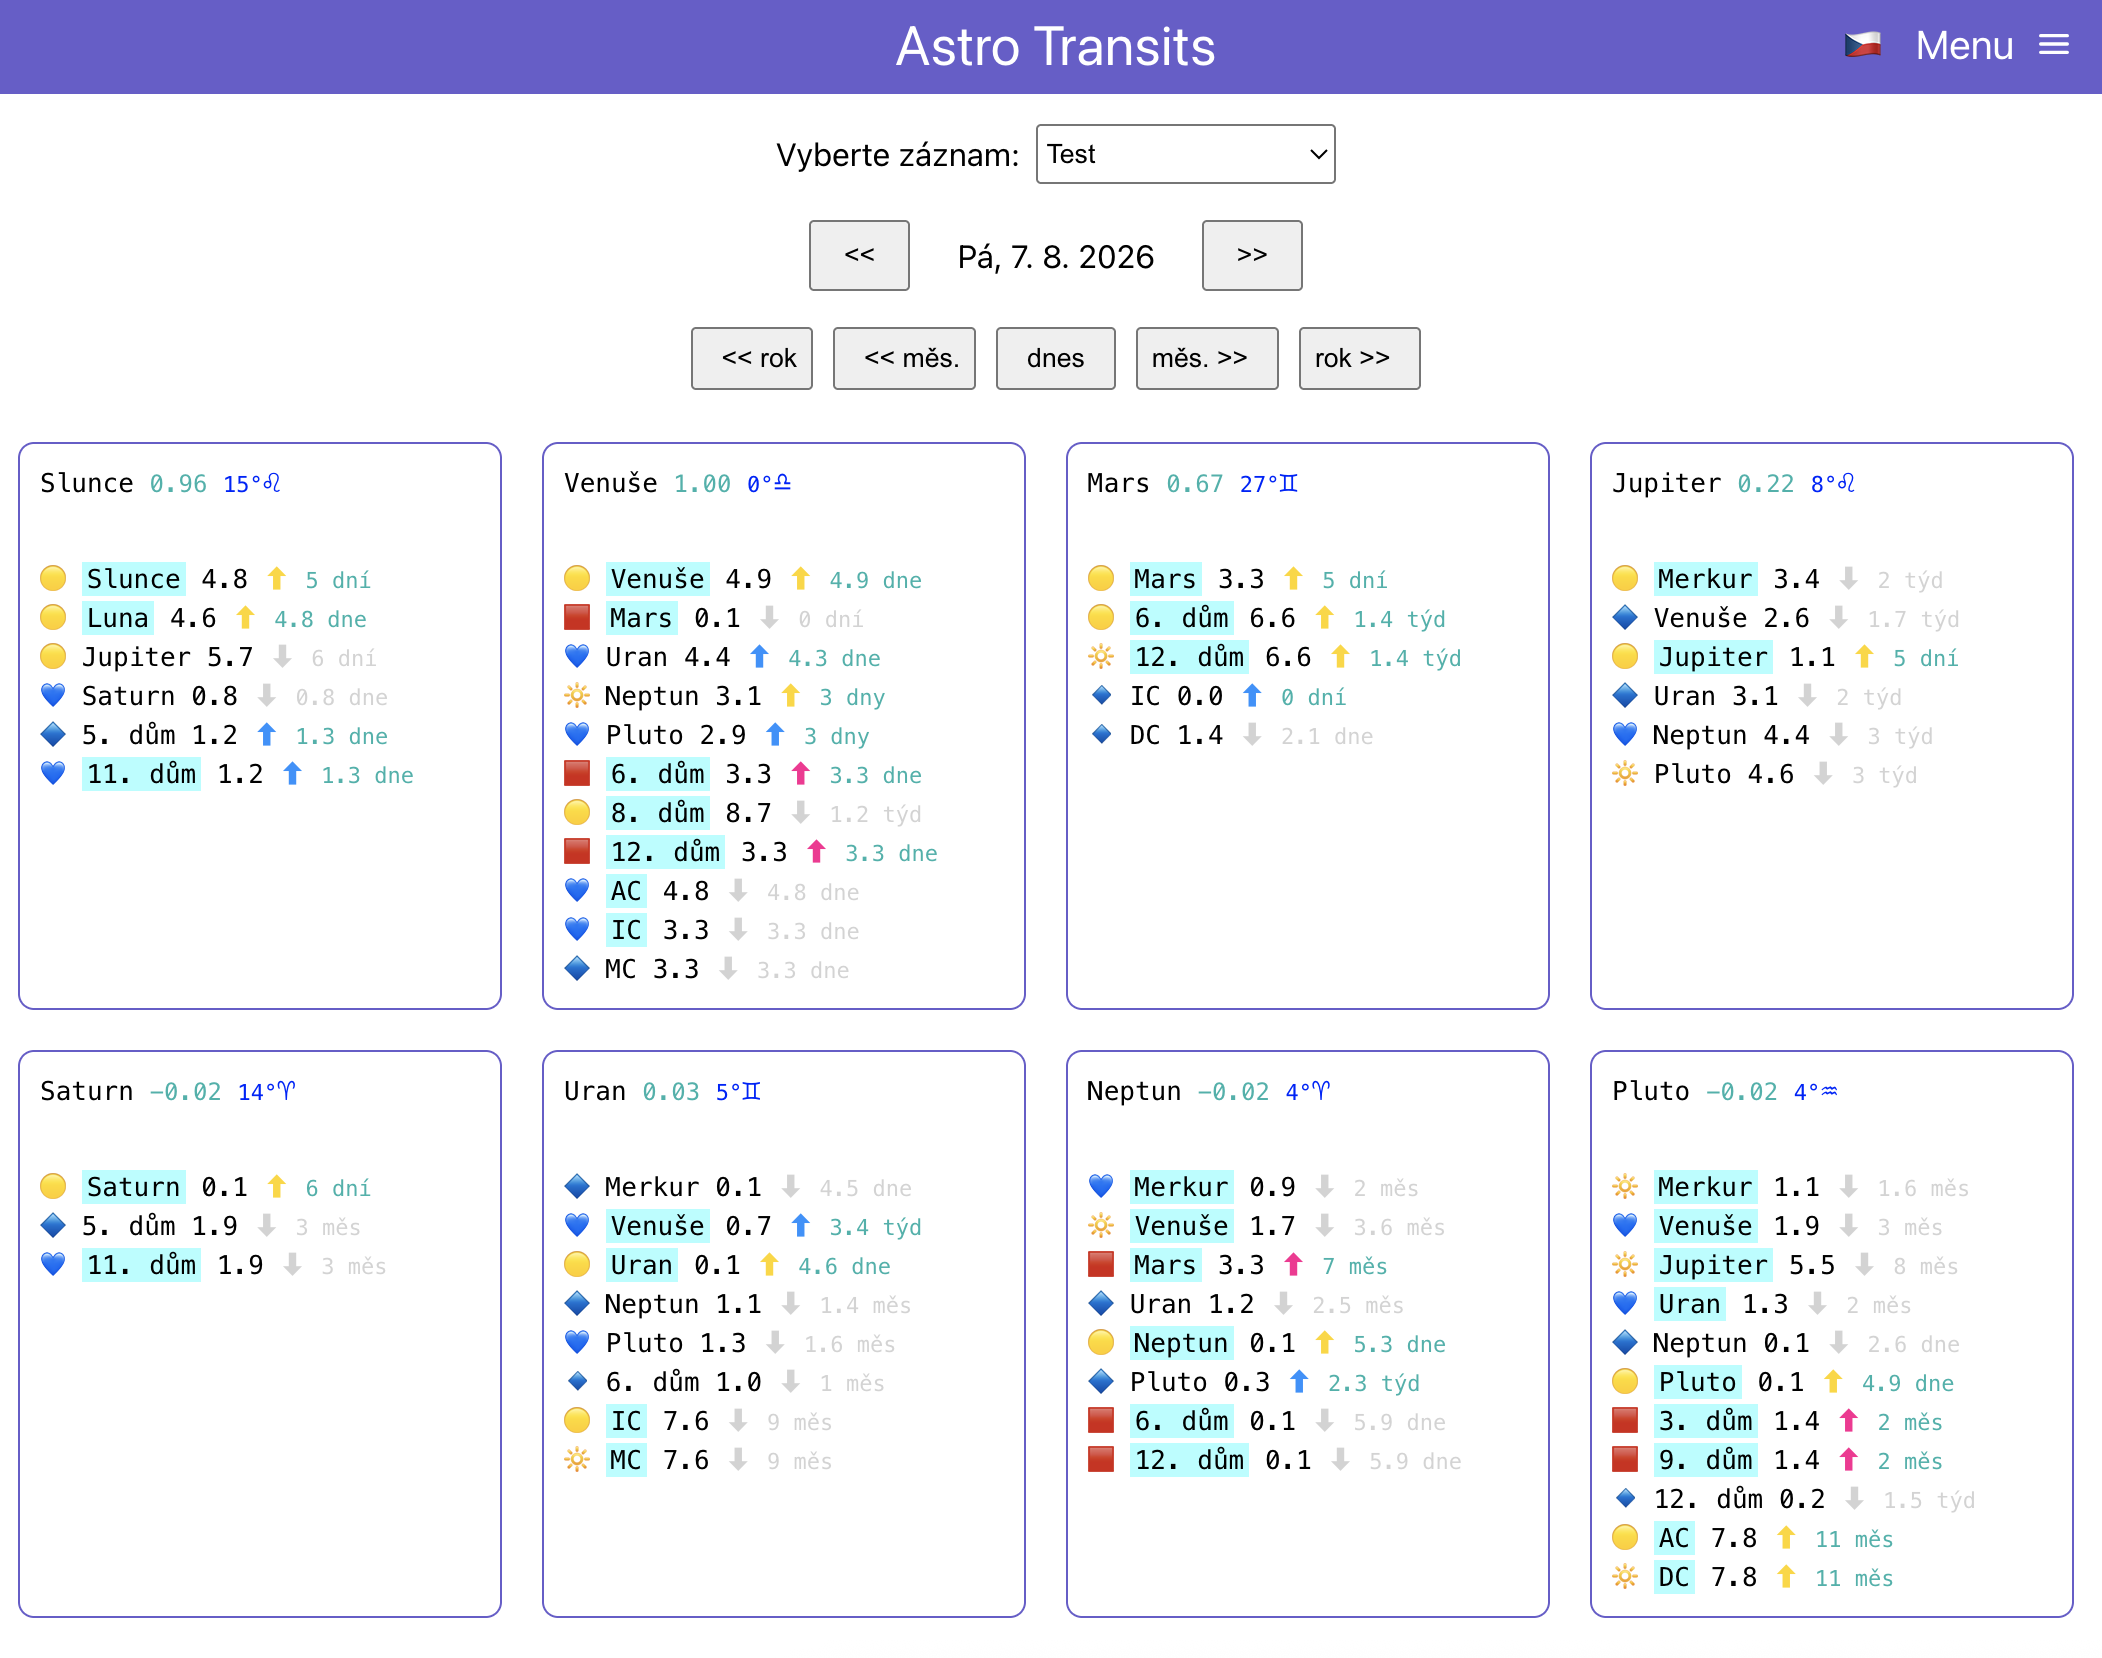
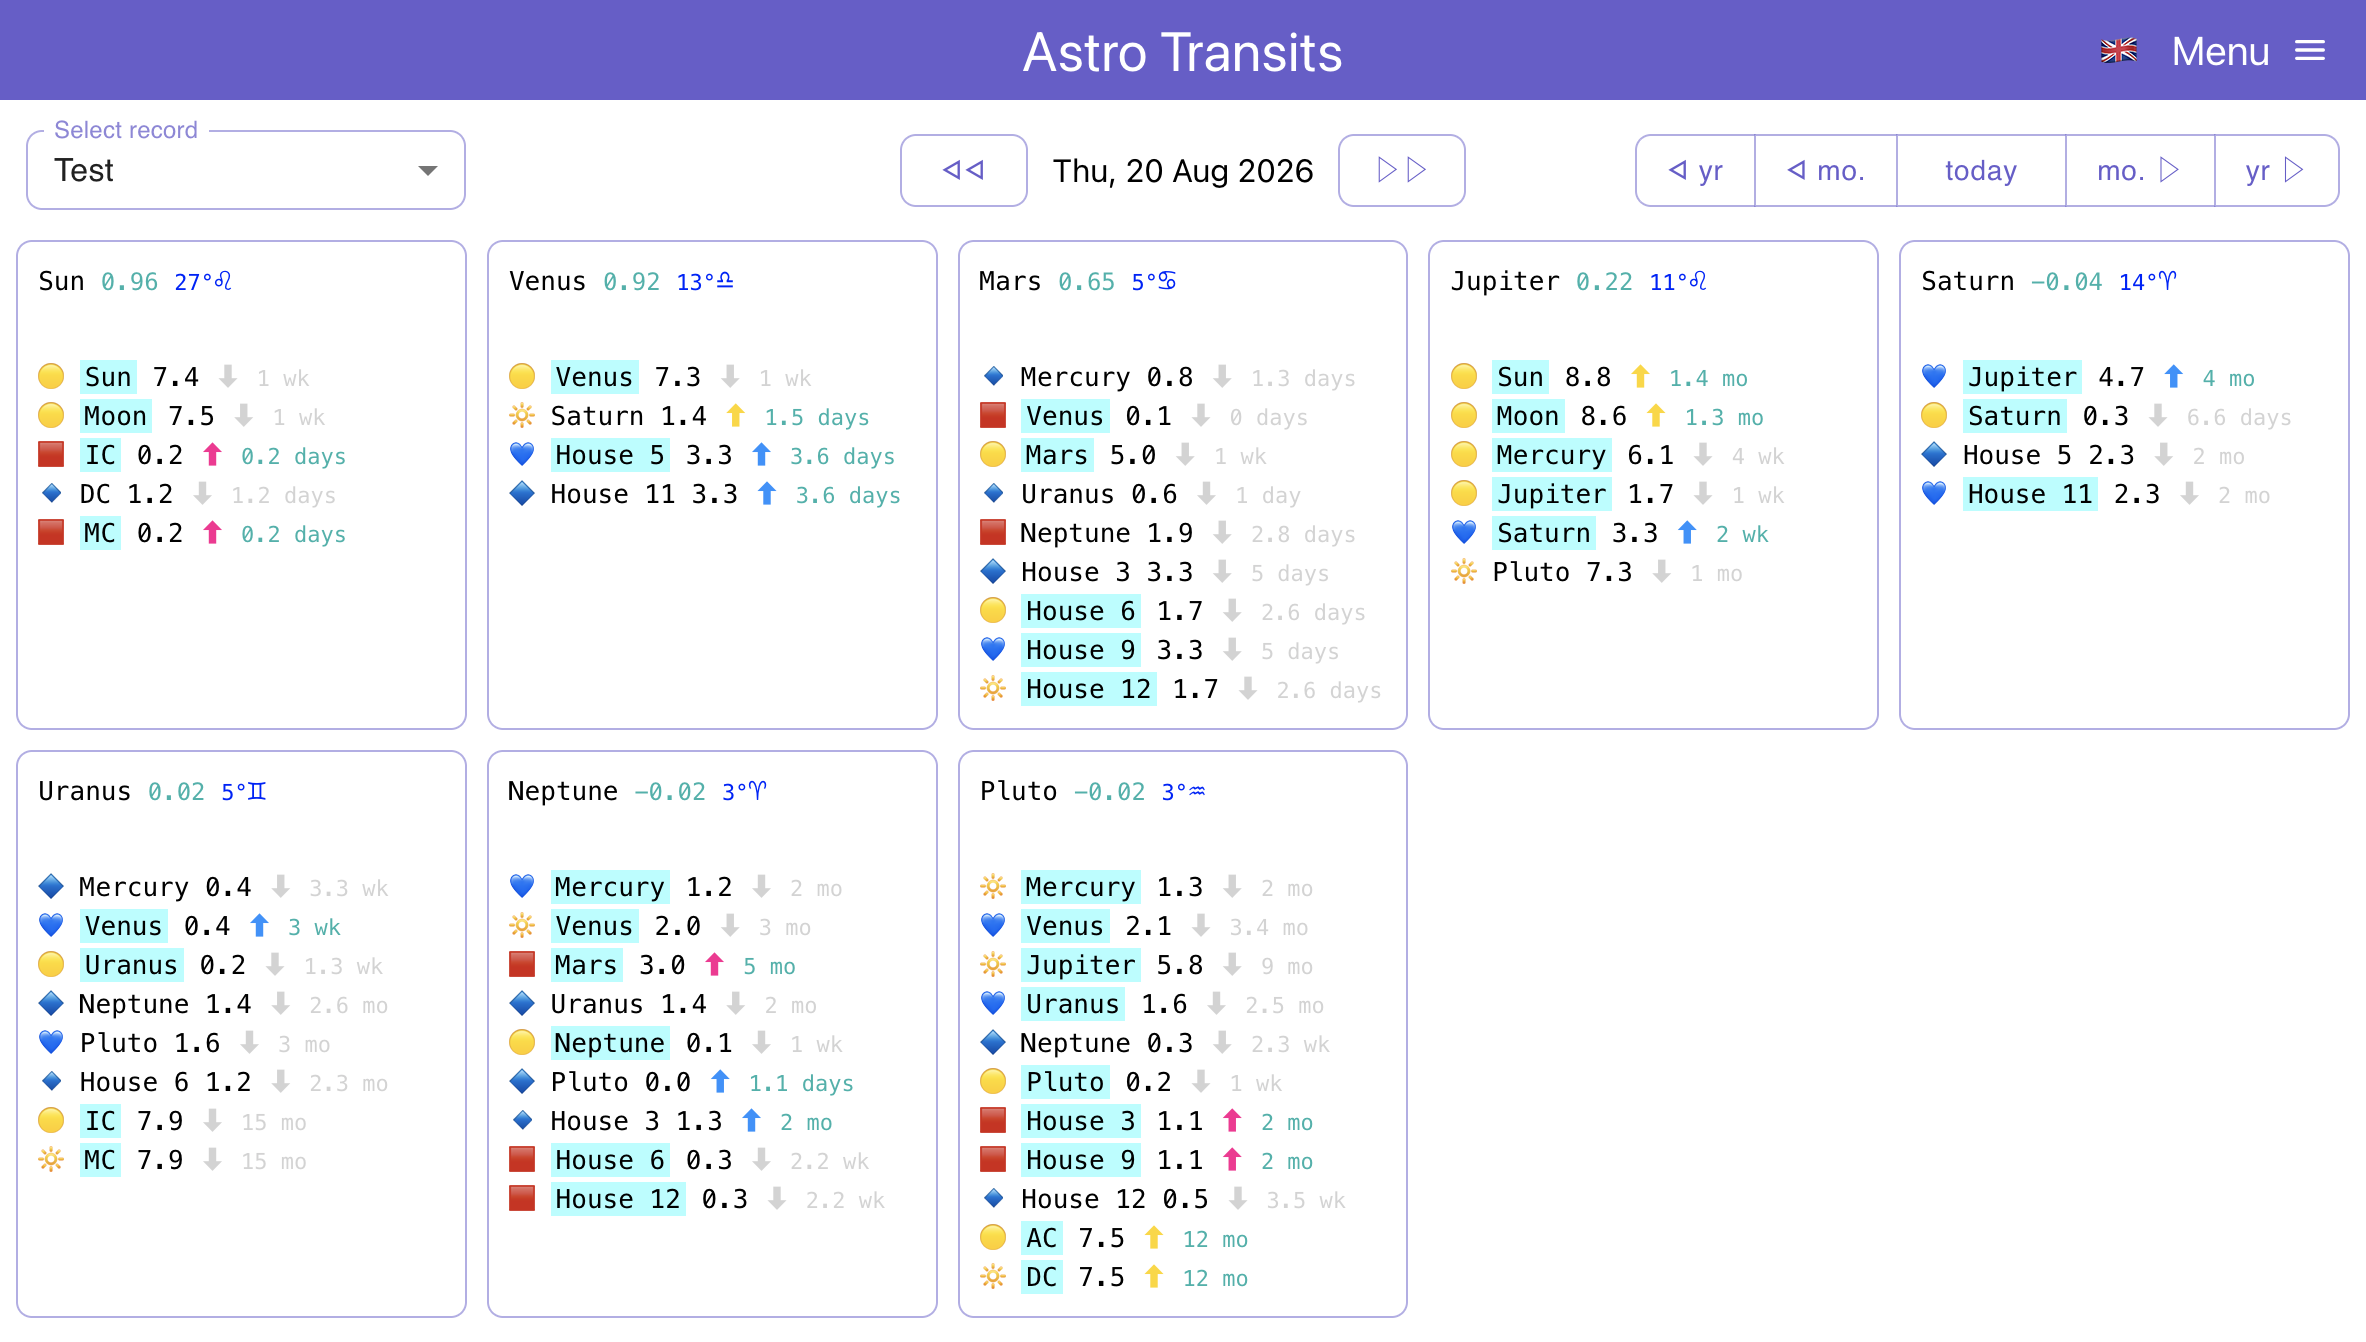
Update README.md, sreenshots

diff --git a/README.md b/README.md
@@ -2,6 +2,8 @@
 
 React (Vite + TypeScript) frontend for viewing planetary positions, natal charts, and transit aspects. Consumes the [`ephemerides`](https://github.com/petr-kratochvil/ephemerides) API for astronomical calculations.
 
+**Try it out live: https://astro-transits.vercel.app/**
+
 ## Screenshots
 
 [Desktop](doc/screen-desktop.png), [Mobile](doc/screen-mobile.jpg)
